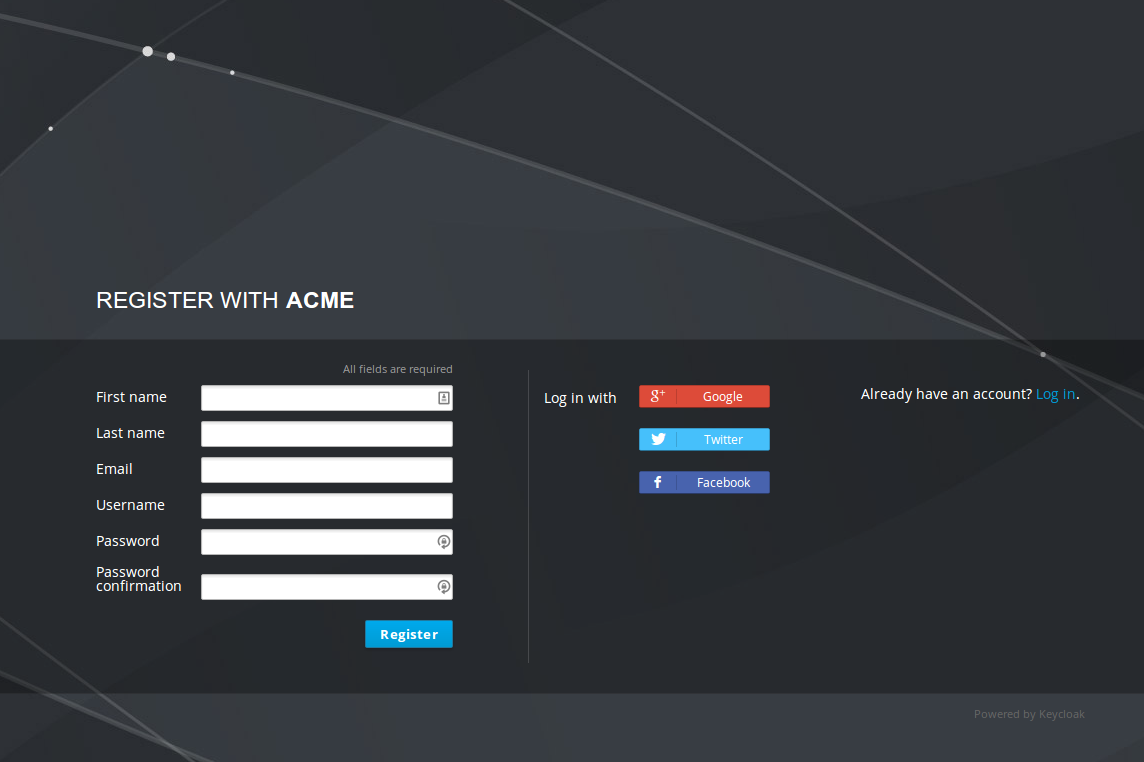
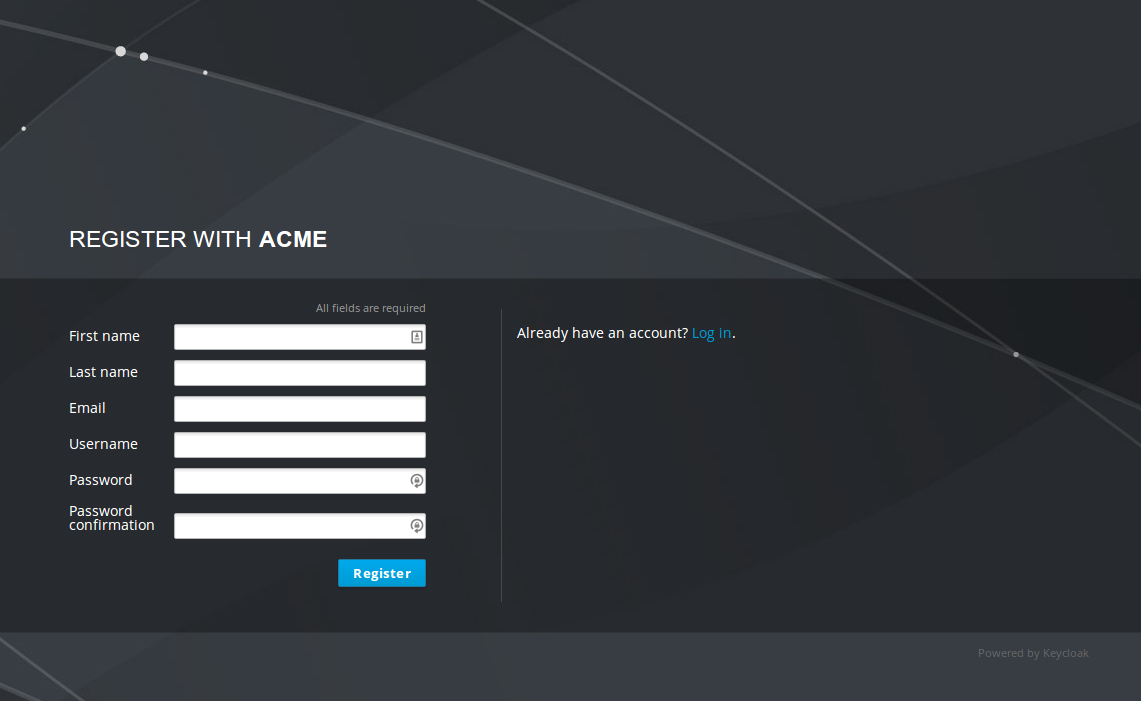
styling

diff --git a/keycloak/css/theme/keycloak.css b/keycloak/css/theme/keycloak.css
@@ -13,14 +13,16 @@
  * GLOBAL STYLES
  *********************************************/
 body {
-  background: #1c1e20;
-  background: -moz-radial-gradient(center, circle cover, #555a5f 0%, #1c1e20 100%);
-  background: -webkit-gradient(radial, center center, 0px, center center, 100%, color-stop(0%, #555a5f), color-stop(100%, #1c1e20));
-  background: -webkit-radial-gradient(center, circle cover, #555a5f 0%, #1c1e20 100%);
-  background: -o-radial-gradient(center, circle cover, #555a5f 0%, #1c1e20 100%);
-  background: -ms-radial-gradient(center, circle cover, #555a5f 0%, #1c1e20 100%);
-  background: radial-gradient(center, circle cover, #555a5f 0%, #1c1e20 100%);
-  background-color: #2b2b2b; }
+  background: #0a568a;
+  background: -moz-radial-gradient(center, circle cover, #75a6c7 0%, #0a568a 100%);
+  background: -webkit-gradient(radial, center center, 0px, center center, 100%, color-stop(0%, #75a6c7), color-stop(100%, #0a568a));
+  background: -webkit-radial-gradient(center, circle cover, #75a6c7 0%, #0a568a 100%);
+  background: -o-radial-gradient(center, circle cover, #75a6c7 0%, #0a568a 100%);
+  background: -ms-radial-gradient(center, circle cover, #75a6c7 0%, #0a568a0 100%);
+  background: radial-gradient(center, circle cover, #75a6c7 0%, #0a568a 100%);
+  background-color: #0a568a;
+text-shadow: 0px 0px 50px #0a568a;
+ }
 
 .reveal {
   font-family: 'Ubuntu Condensed', sans-serif;
@@ -54,7 +56,7 @@ body {
  * LINKS
  *********************************************/
 .reveal a:not(.image) {
-  color: #13daec;
+  color: #fff;
   text-decoration: none;
   -webkit-transition: color .15s ease;
   -moz-transition: color .15s ease;
@@ -153,4 +155,18 @@ pre {
     background-color: rgba(0, 0, 0, 0.5);
     padding: 20px !important;
     margin: 10px !important;
+}
+
+textarea {
+    background-color: rgba(0, 0, 0, 0.5);
+    box-shadow: 0 0 6px rgba(0,0,0,.3);
+    border: none;
+    padding: 20px;
+    margin: 20px 0 0 0;
+    color: white;
+    font-size: .55em;
+    font-family: monospace;
+    line-height: 1.2em;
+    width: 90%;
+    resize: none;
 }

diff --git a/keycloak/demo.html b/keycloak/demo.html
@@ -66,7 +66,7 @@
 
             <p></p>
 
-            <p><textarea id="keycloak-config" onchange="configChanged()" rows="10" cols="100"></textarea><br/>
+            <p><textarea id="keycloak-config" onchange="configChanged()" rows="10" cols="100">test</textarea><br/>
                 <small id="keycloak-config-status">not configured</small>
             </p>
 

diff --git a/keycloak/index.html b/keycloak/index.html
@@ -38,13 +38,9 @@
 <div class="reveal">
 <div class="slides">
 <section>
-    <h1>Keycloak</h1>
+    <img src="keycloak-logo.png"/>
 
-    <h3>One password to rule them all</h3>
-
-    <p>
-        <small>Stian Thorgersen / stian@redhat.com</small>
-    </p>
+    <p><small>Stian Thorgersen / stian@redhat.com</small></p>
 </section>
 
 <section>
